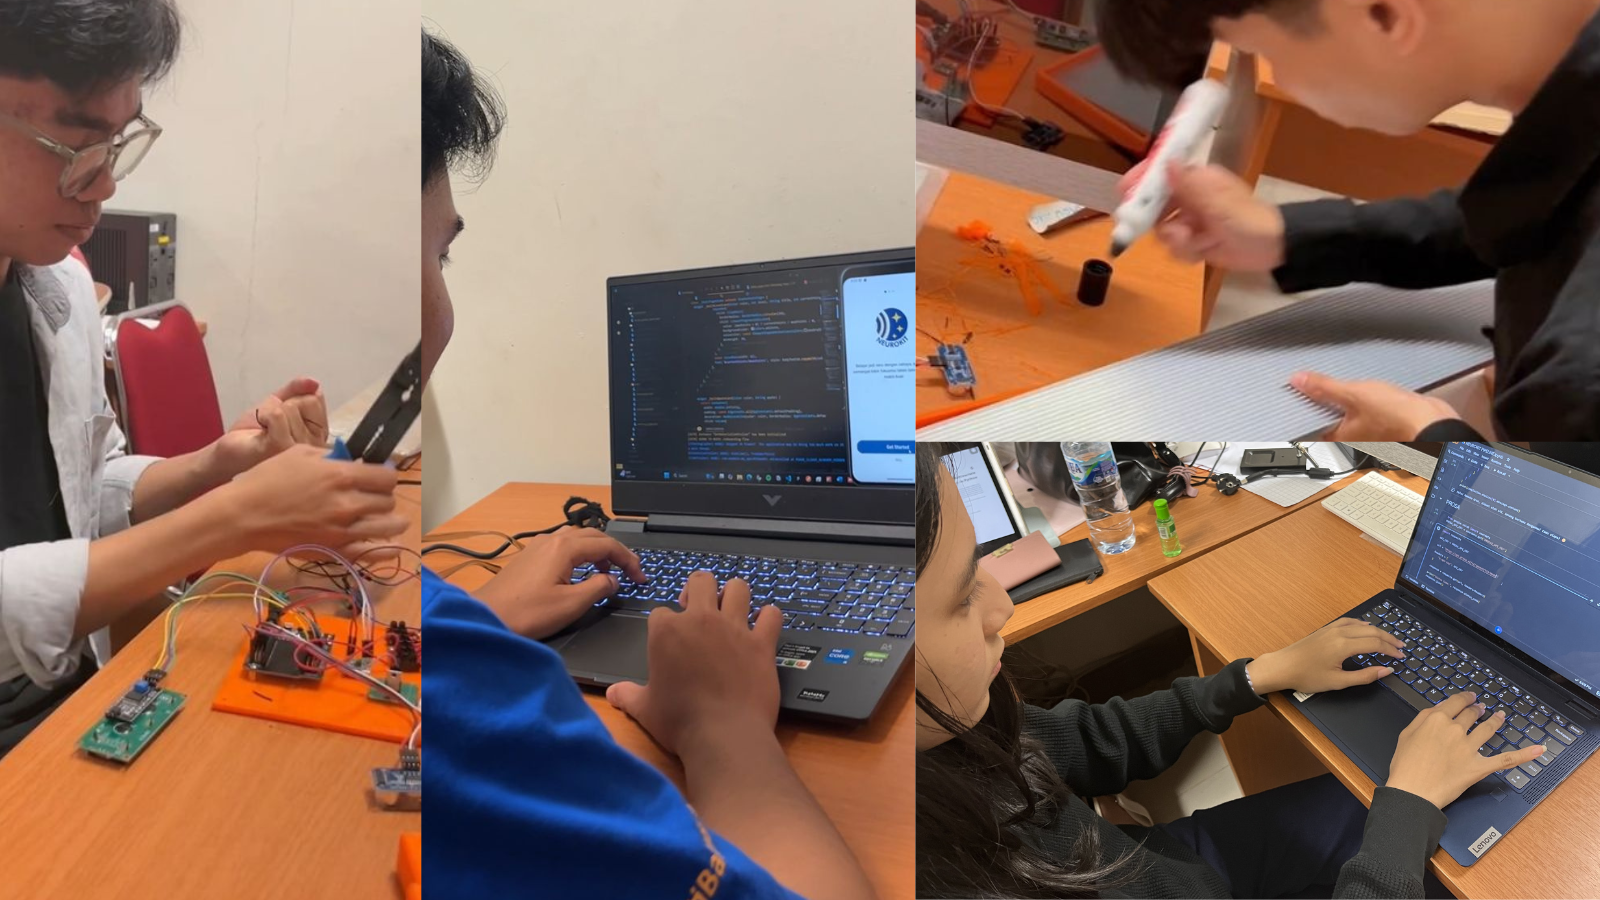
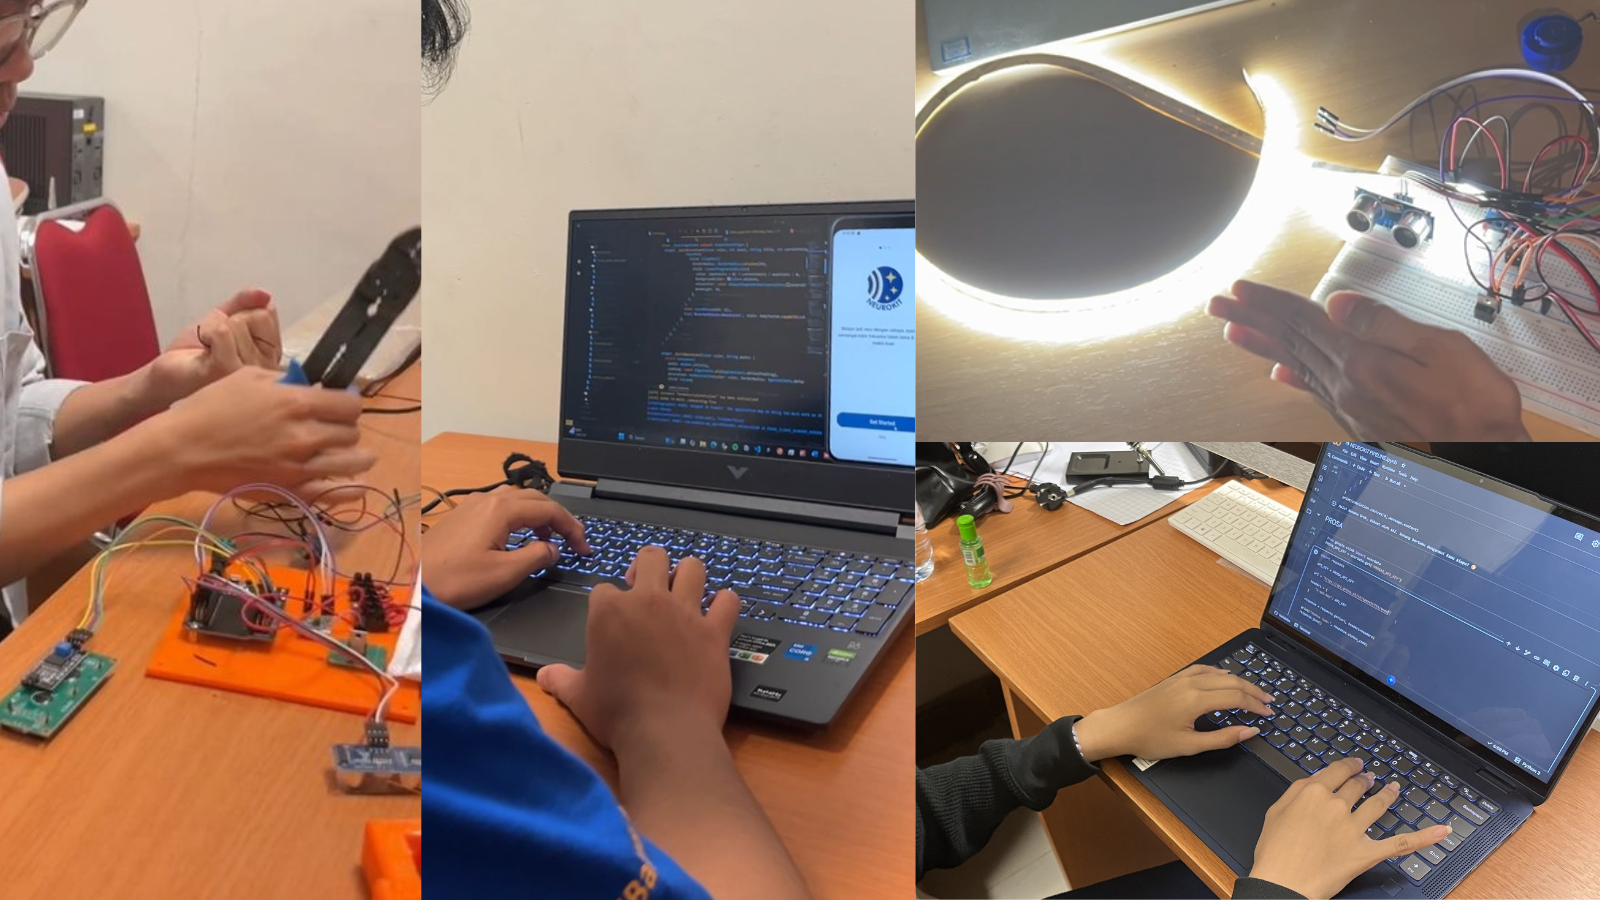
fix: minor adjustment on content

diff --git a/src/app/page.tsx b/src/app/page.tsx
@@ -71,14 +71,14 @@ const appSlides = [
     caption: "Students receive encouragement after completing the session.",
   },
   {
-    title: "Overview",
-    image: "/app/overview.png",
-    caption: "Students can review progress and session activity.",
-  },
-  {
     title: "Rewards",
     image: "/app/rewards.png",
     caption: "Points and rewards make consistency visible.",
+  },
+  {
+    title: "Overview",
+    image: "/app/overview.png",
+    caption: "Students can review progress and session activity.",
   },
 ];
 
@@ -95,14 +95,14 @@ const activityGallery = [
     description: "Direct student trials to observe focus, usability, and session flow.",
   },
   {
-    title: "Product Hardware",
+    title: "Demo-Ready Product",
     image: "/activity/product.png",
-    description: "Physical hardware build and product detail snapshots.",
+    description: "Neurokit hardware and app prepared for the demo filming.",
   },
   {
-    title: "App Interface",
+    title: "Hands-on App Testing",
     image: "/activity/interface.png",
-    description: "Mobile control flow and interaction screens.",
+    description: "Validation of Neurokit app flows on mobile for session simulations.",
   },
   {
     title: "Development Process",
@@ -629,7 +629,7 @@ export default function Home() {
               <p>
                 Neurokit helps students build better study sessions through a connected app and device.
                 <span className="mt-2 block">
-                  The app guides motivation, warm-ups, and rewards, while the device supports each session with adaptive light and music therapy.
+                  The app provides motivation, warm-ups, and rewards, while the device supports each session with adaptive light and music therapy.
                 </span>
               </p>
             </Reveal>
@@ -751,7 +751,7 @@ export default function Home() {
                       <p className="max-w-xl text-sm font-semibold leading-6 text-white sm:text-base">
                         Presentation Activity
                         <span className="mt-1 block text-xs font-medium text-white/85 sm:text-sm">
-                          Team presentation and live demonstration of Neurokit.
+                          Team presentation with an in-person product showcase.
                         </span>
                       </p>
                     </div>
@@ -805,14 +805,16 @@ export default function Home() {
               <article className="rounded-[2rem] bg-[var(--blue)] px-7 py-10 text-white shadow-[0_24px_70px_rgba(11,52,132,0.22)] sm:px-10">
                 <p className="text-sm font-semibold uppercase tracking-[0.14em] text-[var(--sun)]">Contact</p>
                 <h2 className="mt-4 [font-family:Ovo,serif] text-3xl leading-tight sm:text-4xl">
-                  Bring Neurokit to your classroom or program.
+                  Bring Neurokit into your study routine.
                 </h2>
                 <p className="mt-4 max-w-2xl text-sm leading-7 text-white/84 sm:text-base">
-                  For pilot collaboration, demo sessions, investor conversations, and media inquiries. Contact us at{" "}
-                  <a href="mailto:neurokitunsrat@gmail.com" className="font-semibold text-white transition hover:text-[var(--sun)] hover:underline">
+                  Contact us at: {" "}
+                  <a
+                    href="mailto:neurokitunsrat@gmail.com"
+                    className="inline-flex items-center rounded-full border border-white/24 bg-white/12 px-3 font-semibold text-white transition hover:border-[var(--sun)]/45 hover:bg-white/18 hover:text-[var(--sun)]"
+                  >
                     neurokitunsrat@gmail.com
                   </a>
-                  .
                 </p>              
               </article>
             </Reveal>
